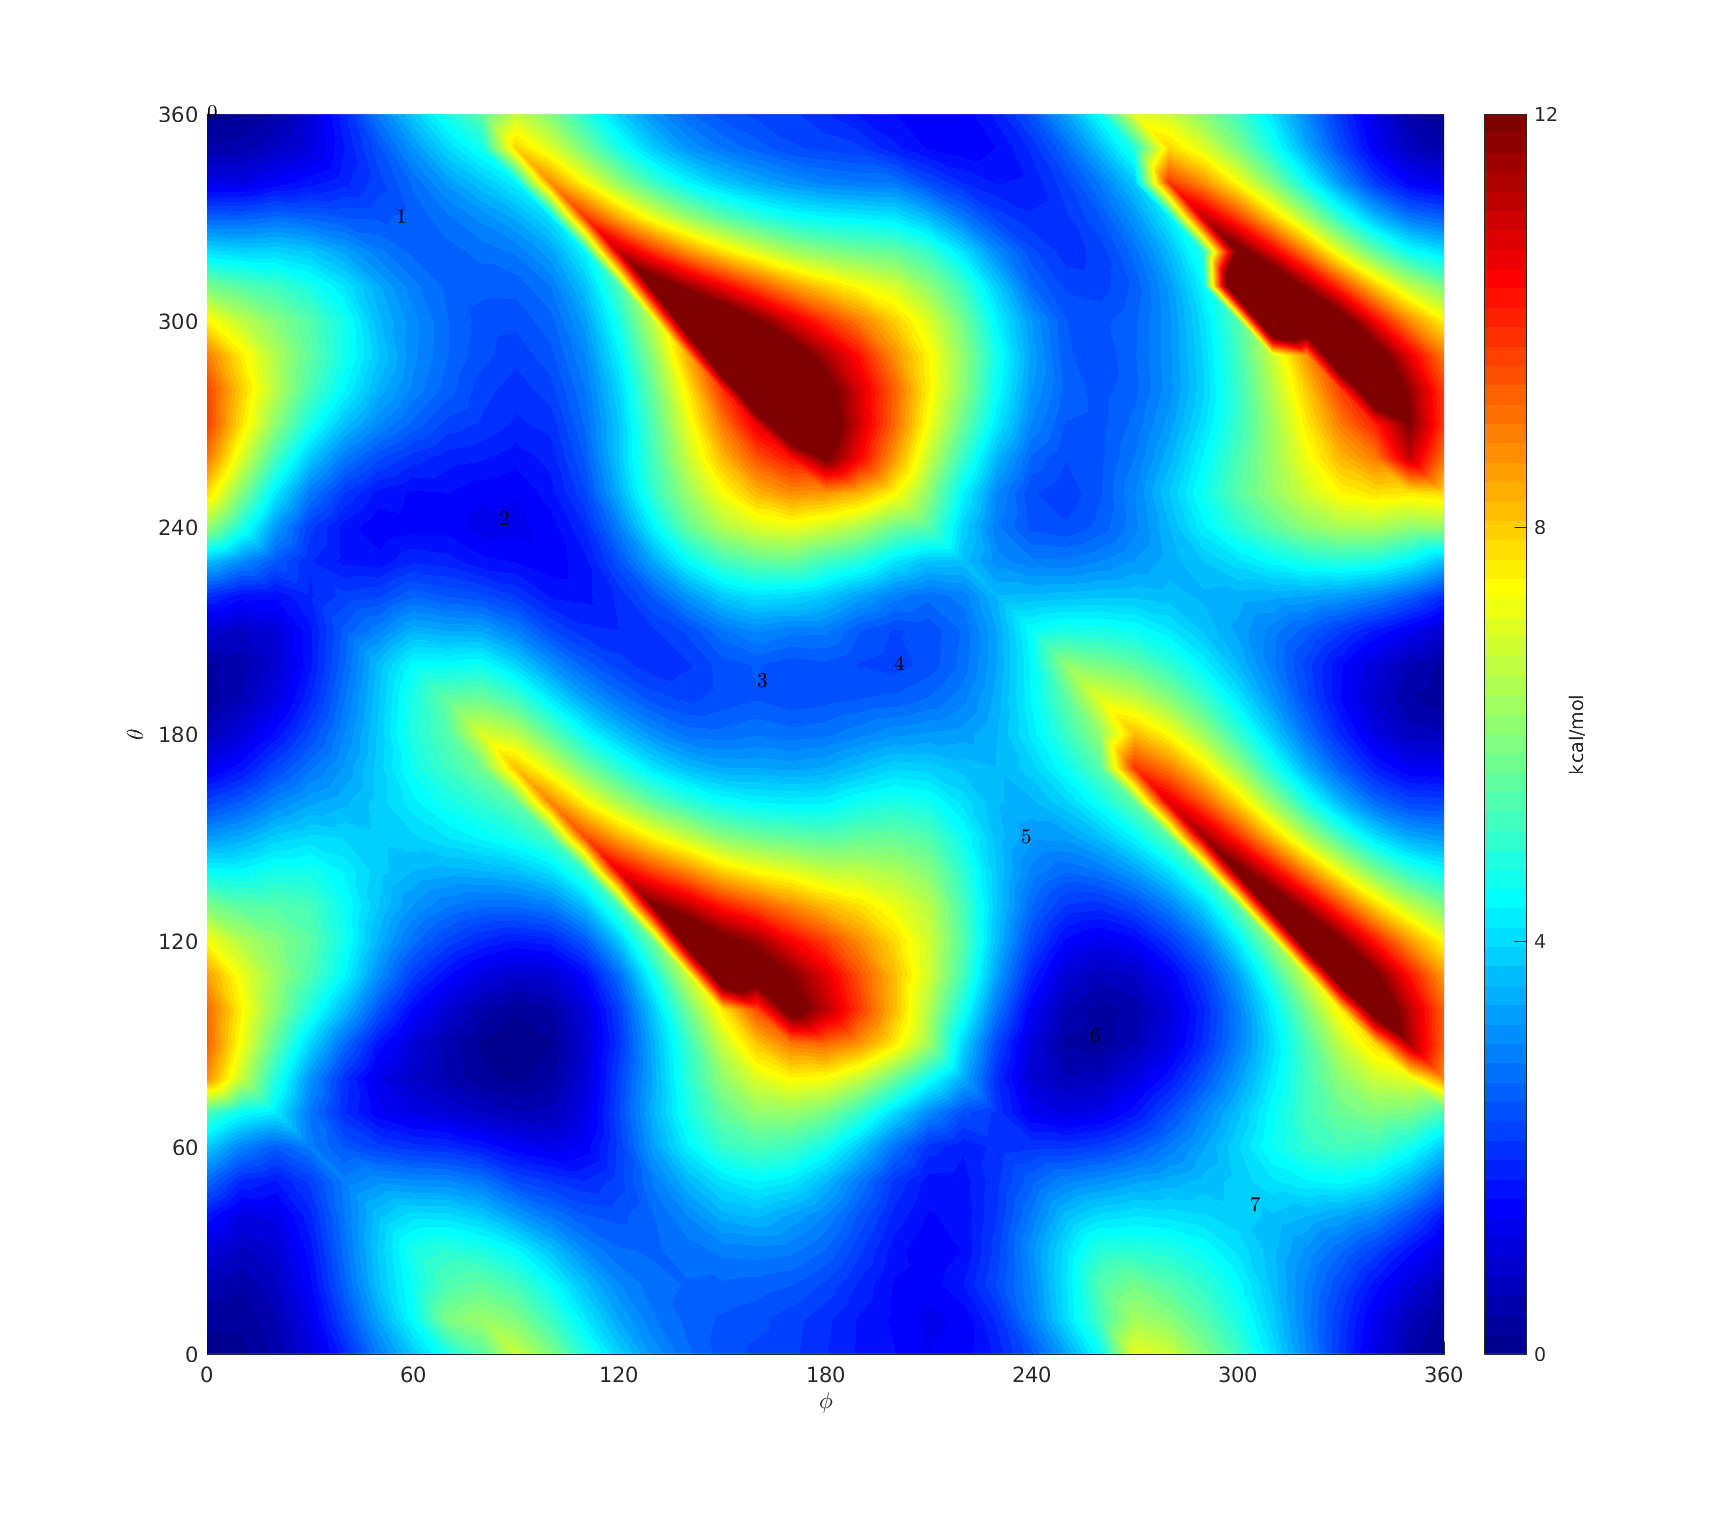
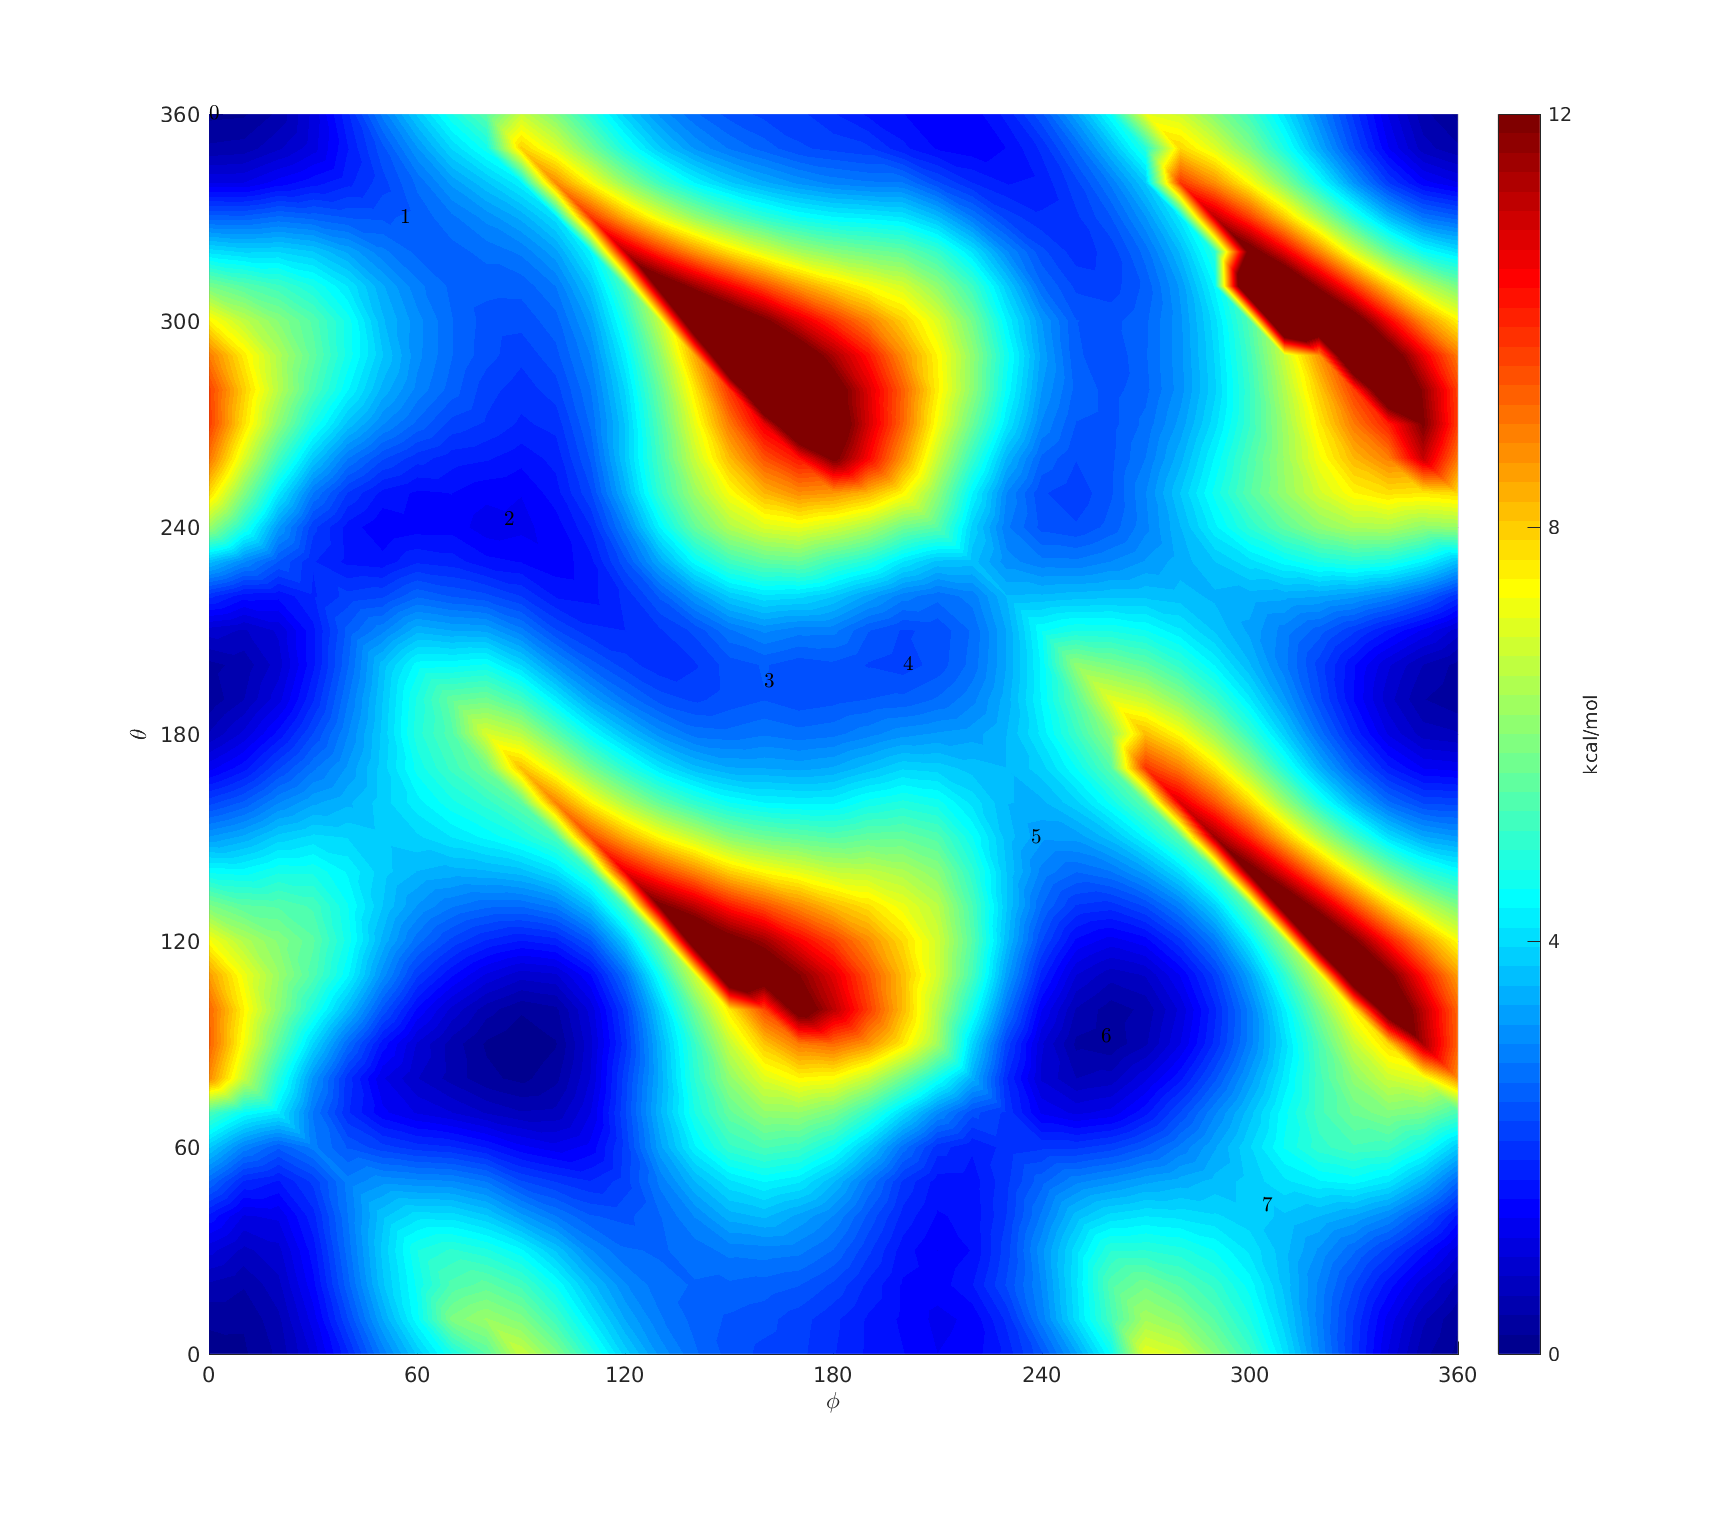
modified

diff --git a/plot/plotPES.m b/plot/plotPES.m
@@ -1,8 +1,8 @@
 clc, clear, close all;
 n = 36;
 
-system = '1101';
-method = '_B3LYP';
+system = '1111';
+method = '_RIMP2';
 showpath = true;
 
 labels = [];
@@ -32,7 +32,7 @@ if (showpath==true)
             case '1101'
                 labels=[[  0,360]; [ 40,328.5]; [60,305]; [ 82,244]; [178,195]; [225,148.5]; [252, 90]; [300.4, 85]; [310, 70];];
             case '1111'
-                labels=[[  0,360]; [ 55,329.7]; [ 85,255]; [130,200]; [185,195]; [237,149.7]; [257, 92]; [303.5, 43];];
+                labels=[[  0,360]; [ 55,329.7]; [ 62,325]; [ 85,255]; [130,200]; [185,195]; [230,160]; [237,149.7]; [257, 92]; [298, 40]; [303.5, 43];];
             case '10n01'
                 labels=[[  0,360]; [ 39.1,310]; [47,300]; [ 90,245]; [147,205]; [181,180]; [205,148]; [248, 87]; [300, 38.4];];
             case '11n01'

diff --git a/path/proc.py b/path/proc.py
@@ -18,7 +18,7 @@ if (jobname == "1001"):
 elif (jobname == "1101"):
     rotlist = np.array([[  0,360], [ 40,328.5], [ 60,305], [ 82,244], [178,195], [225,148.5], [252, 90], [300.4, 85], [310, 70]])
 elif (jobname == "1111"):
-    rotlist = np.array([[  0,360], [ 55,329.7], [ 85,255], [130,200], [185,195], [237,149.7], [257, 92], [303.5, 43]])
+    rotlist = np.array([[  0,360], [ 55,329.7], [ 62,325], [ 85,255], [130,200], [185,195], [230,160], [237,149.7], [257, 92], [298,40], [303.5, 43]])
 elif (jobname == "10n01"):
     rotlist = np.array([[  0,360], [39.1,310], [47,300], [ 90,245], [147,205], [181,180], [205,148], [242, 87], [300, 38.4]])
 elif (jobname == "11n01"):

diff --git a/plot/TMMode.m b/plot/TMMode.m
@@ -16,6 +16,9 @@ X = reshape(A(:,1), [n,n]);
 Y = reshape(A(:,2), [n,n]);
 P = reshape(A(:,3), [n,n]);
 
+P = P*0;
+P(10,10) = -1;
+
 TM = zeros(n^2, n^2);
 for i=1:n
     for j=1:n
@@ -38,7 +41,7 @@ plot(1:n^2, eigs);
 eigv(:,1)=eigv(:,1)/sum(eigv(:,1));
 display(sum(log(eigs)));
 
-V = reshape(eigv(:,1),[n,n])';
+V = reshape(eigv(:,2),[n,n])';
 
 [Xe,Ye,Ve] = meshBoard(X,Y,V);
 surf(Xe/(2*pi)*360,Ye/(2*pi)*360,Ve);
